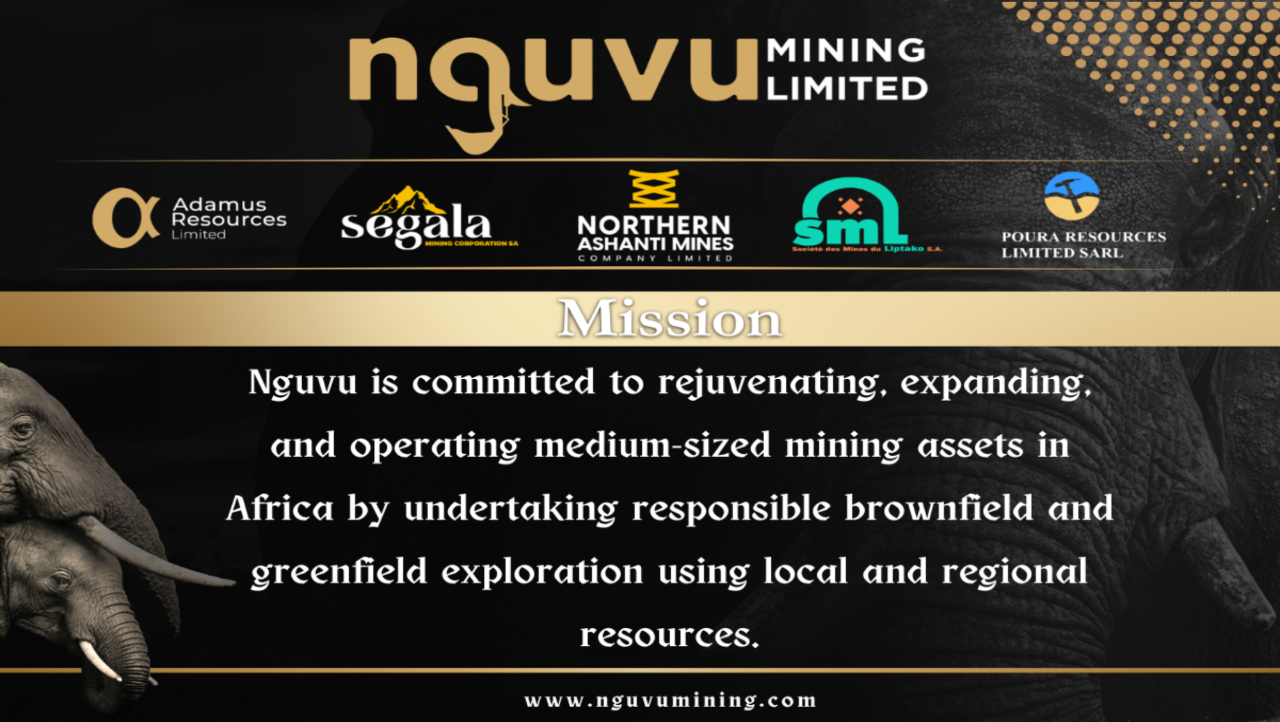
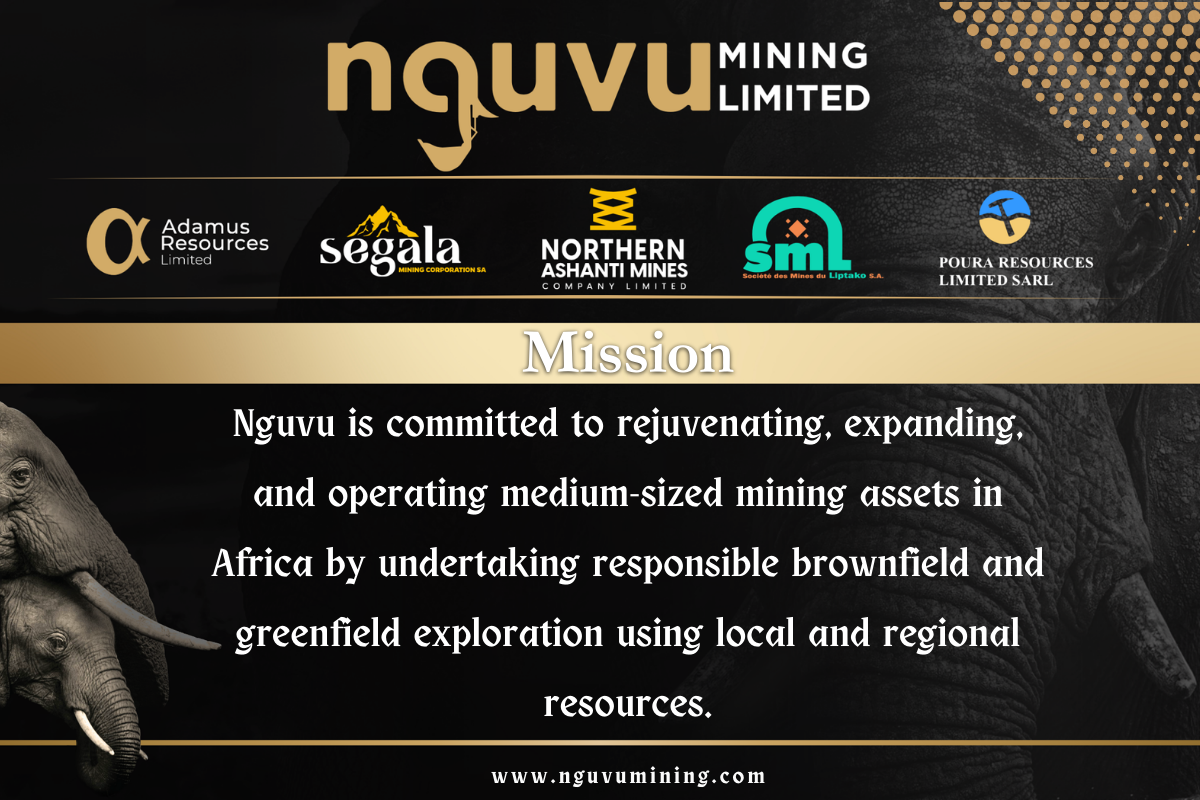
assets(home): update company images and refine hero section styling
- Replace mission and values images with updated versions
- Add new vision image (vission.png)
- Adjust hero image styling with bg-center and object-fill for better positioning
- Add xl:min-w-5xl constraint for larger screen consistency
- Update gradient overlay to use bg-linear-to-t for improved visual hierarchy
- Enhance image display and text readability on hero section

diff --git a/app/routes/home.tsx b/app/routes/home.tsx
@@ -961,10 +961,10 @@ export default function Home() {
                       : undefined
                   }
                   alt={currentItem.data.alt}
-                  className="absolute inset-0 h-full w-full bg-gray-900 object-cover"
+                  className="absolute inset-0 h-full w-full bg-gray-900 bg-center object-fill xl:min-w-5xl"
                 />
                 {/* Minimal overlay to keep text readable without covering the branded image */}
-                <div className="pointer-events-none absolute inset-x-0 bottom-0 h-24 bg-gradient-to-t from-black/70 to-transparent" />
+                <div className="pointer-events-none absolute inset-x-0 bottom-0 h-24 bg-linear-to-t from-black/70 to-transparent" />
               </>
             ) : (
               <>
